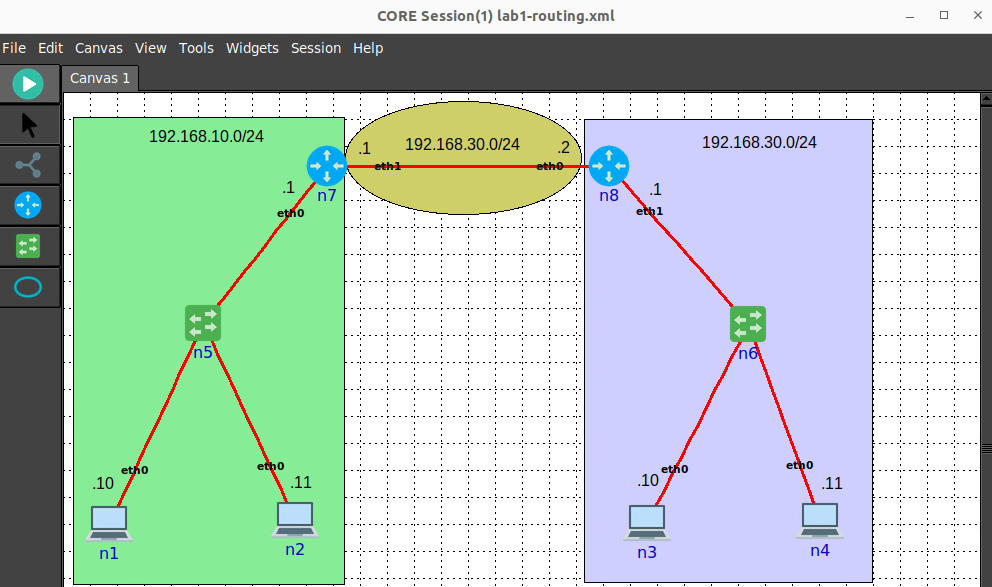
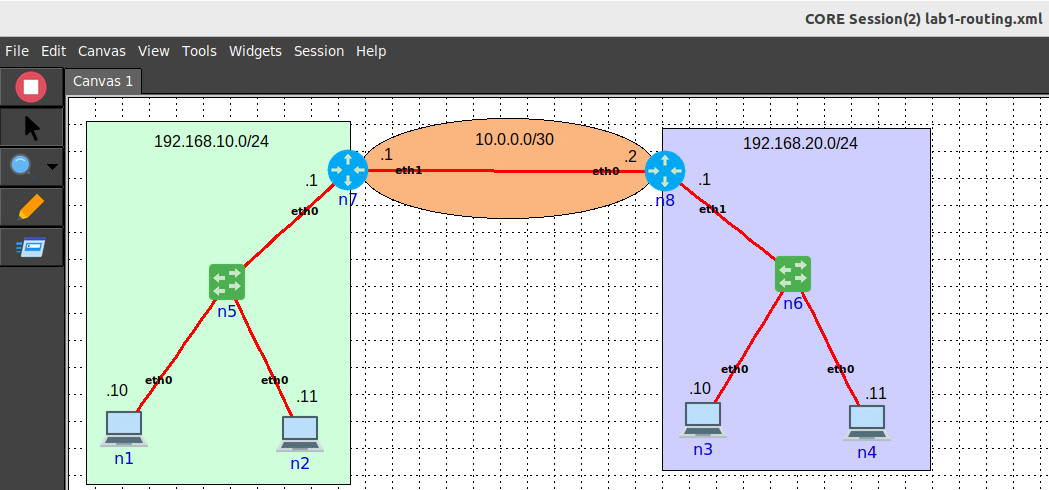
update

diff --git a/docs/source/lab1/part2/index.rst b/docs/source/lab1/part2/index.rst
@@ -23,19 +23,52 @@ For example, the host ``n1`` should be configured with the IP address ``192.168.
 
    ip addr add 192.168.10.10/24 dev eth0
 
-**Step 2:** Set the IP addresses on **all the routers** by following the IP addressing schemes shown in the topology. While it is possible to use the same commands as those used for setting the IPs for hosts, for routers we will use its Quagga/FRR interface to do so. Quagga/FRR are open-source software routing stacks.
+**Step 2:** Set the IP addresses on **all the interfaces of the the routers** by following the IP addressing schemes shown in the topology. While it is possible to use the same commands as those used for setting the IPs for hosts, for routers we will use its Quagga/FRR interface to do so. Quagga/FRR are open-source software routing stacks.
 
-For example, the host ``n1`` should be configured with the IP address ``192.168.10.10/24``::
+For example, the interface ``eth0`` on router ``n7`` should be configured with the IP address ``192.168.10.1/24``::
 
-   ip addr add 192.168.10.10/24 dev eth0
+   vtysh
 
-**Step 2:** From host ``n1``, ping host ``n2``::
+.. code-block:: none
+
+    # configure terminal
+        (config)# interface eth0
+            (config-if)# ip address 192.168.10.1/24
+            (config-if)# exit
+        (config)# interface eth1
+            (config-if)# ip address 10.0.0.1/30
+            (config-if)# exit
+        (config)# exit
+    #
+
+.. image:: ../images/15.png
+
+Now configure the router ``n8`` on your own.
+ 
+**Step 3:** Verify the configuration on the routers by issuing the following command under ``vtysh`` shell::
+
+   show running-config
+
+.. image:: ../images/16.png
+
+Testing Connectivity
+++++++++++++++++++++++++++++++
+
+**Step 1:** From host ``n1``, ping host ``n2``::
 
    ping -c 3 192.168.10.11
 
 .. image:: ../images/12.png
 
 You should see a successful ping.  
+
+**Step 1:** From host ``n1``, ping the interface ``eth0`` on router ``n7``::
+
+   ping -c 3 192.168.10.1
+
+.. image:: ../images/17.png
+
+You should see a successful ping.
 
 **Step 3:** From host ``n1``, ping host ``n3``::
 
@@ -57,44 +90,74 @@ This ping will not be successful. You will see the message ``Network is unreacha
 
 Notice that we still do not have connectivity. However, the error message changed from ``Network is unreachable`` to ``Destination Host Unreachable``. We will explain how to fix this next.
 
-
-- On router `r1`, set IP address `192.168.1.1/24` on `eth0` and `192.168.3.1/24` on `eth1`::
-
-   ip addr add 192.168.1.1/24 dev eth0
-   ip addr add 192.168.3.1/24 dev eth1
-
-- On router `r2`, set IP address `192.168.2.1/24` on `eth0` and `192.168.3.2/24` on `eth1`::
-
-   ip addr add 192.168.2.1/24 dev eth0
-   ip addr add 192.168.3.2/24 dev eth1
-
-**Step 4:** Inspect the IP addresses again to confirm they are set correctly::
-
-   ip -brief addr show dev eth0
+**Step 6:** Configure the default gateway for all the end-hosts (``n1``, ``n2``, ``n3``, ``n4``)
 
 Static Routing Configuration
 ----------------------------
 
+Inspecting Routing Tables on the Routers
++++++++++++++++++++++++++++++++++++++
+
+**Step 1:** Inspect the routing table of router ``n7`` by issuing the following command under ``vtysh``:
+
+.. code-block:: none
+
+   # show ip route
+
+
+.. image:: ../images/18.png
+
+
+The output is the routing table of ``n7``. It has three entries:
+
+   1 - ``10.0.0.0/30``: this network is directly connected (notice the C code at the beginning of the line) to the router on interface ``eth1``.
+   
+   2 - ``127.0.0.0/8``: this network is for the localhost and is directly connected to the router on the loopback interface ``lo``.
+   
+   3 - ``192.168.10.0/24``: this network is directly connected to the router on interface ``eth0``.
+
+The ``*`` after each routing table entry means that the route is pushed to the kernel's Forwarding Information Base (FIB). This means that the kernel is aware of these routers. 
+
+The router added those entries automatically to the routing table after we configured the IP addresses on its interfaces. 
+
+.. note::
+   The routing table of router ``n7`` does not have an entry to the network ``192.168.20.0/24``. Therefore, all packets destined to ``192.168.20.0/24`` will be dropped. 
+
+**Step 2:** Inspect the routing table of router ``n8``. 
+
+
 Configuring Static Routes on Routers
 +++++++++++++++++++++++++++++++++++++
 
-**Step 1:** On router `r1`, configure a static route to network `192.168.2.0/24` via router `r2`::
+In this section, we will manually add the routes to the routing tables of the routers. This is known as static routing.
 
-   ip route add 192.168.2.0/24 via 192.168.3.2
+**Step 1:** On router `n7`, configure a static route to network `192.168.20.0/24` under the ``vtysh`` terminal: 
 
-**Step 2:** On router `r2`, configure a static route to network `192.168.1.0/24` via router `r1`::
+.. code-block:: none
 
-   ip route add 192.168.1.0/24 via 192.168.3.1
+    # configure terminal
+        (config)# ip route 192.168.20.0/24 10.0.0.2
+        (config)# exit
+    #
 
-**Step 3:** Verify the routing tables on each router:
+.. image:: ../images/19.png
 
-- On router `r1`::
+The ip route command inserts a routing entry statically into the routing table. In this case, a route to the network ``192.168.20.0/24`` has been added. To reach that network, the next hop device is ``10.0.0.2``.
 
-   ip route show
+**Step 2:** Inspect the routing table of router ``n7``: 
 
-- On router `r2`::
+.. code-block:: none
 
-   ip route show
+   # show ip route
+
+.. image:: ../images/20.png
+
+Now we can see that a fourth entry has been added. This entry has been added statically (note the ``S`` at the beginning of the line) to reach the network ``192.168.20.0/24`` by taking the exit interface ``eth1`` on the current router. The IP ``10.0.0.2`` corresponds to the next hop (i.e., router ``n8``).
+
+**Step 3:** Configure static routing on router ``n8`` to reach the network 192.168.10.0/24.
+
+**Step 4:** Verify the routing tables on router ``n8``.
+
 
 Checking Connectivity
 ----------------------
@@ -102,22 +165,80 @@ Checking Connectivity
 Ping Test Between Hosts
 ++++++++++++++++++++++++++++++
 
-**Step 1:** On the terminal of host `h1`, send a ping to host `h2` to test connectivity::
+**Step 1:** On the terminal of host ``n1``, send a ping to host ``n3`` to test connectivity::
 
-   ping -c 1 192.168.2.10
+   ping -c 3 192.168.20.10
 
-You should receive a response from host `h2` if routing is correctly configured.
+.. image:: ../images/21.png
 
-**Step 2:** On the terminal of host `h2`, send a ping to host `h1` to verify two-way connectivity::
+You should receive a response from host ``n3`` if routing is correctly configured.
 
-   ping -c 1 192.168.1.10
+**Step 2:** On the terminal of host `n2`, send a ping to host `n4` to verify connectivity.
 
-Verifying Routing Tables and Traffic
-++++++++++++++++++++++++++++++
+You should receive a response from host ``n4`` if routing is correctly configured.
 
-**Step 1:** Inspect the routing tables on the routers again to ensure the static routes are present.
+Dynamic Routing using RIP
+----------------------
 
-**Step 2:** Use a tool like `tcpdump` or `wireshark` to capture traffic on the routers' interfaces and verify that packets are being routed correctly.
+**Step 1:** Delete the static route you added on router ``n7``:
+
+.. code-block:: none
+
+    # configure terminal
+        (config)# no ip route 192.168.20.0/24 10.0.0.2
+        (config)# exit
+    #
+
+**Step 2:** Delete the static route you added on router ``n8``:
+
+.. code-block:: none
+
+    # configure terminal
+        (config)# no ip route 192.168.10.0/24 10.0.0.1
+        (config)# exit
+    #
+
+**Step 3:** Open a new terminal on each of the routers, and enter the following command to start the RIP protocol daemon::
+
+   ripd -d
+
+
+**Step 4:** Configure RIP protocol by entering the following sequence of commands in a vtysh shell on ``n7``:
+
+.. code-block:: none
+
+    # configure terminal
+        (config)# router rip
+        (config-router)# network 192.168.10.0/24
+        (config-router)# network 10.0.0.0/30
+        (config-router)# redistribute static
+
+.. image:: ../images/22.png
+
+**Step 5:** Configure RIP protocol by entering the following sequence of commands in a vtysh shell on ``n8``:
+
+.. code-block:: none
+
+    # configure terminal
+        (config)# router rip
+        (config-router)# network 192.168.20.0/24
+        (config-router)# network 10.0.0.0/30
+        (config-router)# redistribute static
+        
+
+**Step 6:** Inspect the routing table on ``n7``::
+   
+   show ip route
+
+.. image:: ../images/23.png
+
+**Step 7:** On the terminal of host ``n1``, send a ping to host ``n3`` to test connectivity::
+
+   ping -c 3 192.168.20.10
+
+.. image:: ../images/21.png
+
+You should receive a response from host ``n3`` if routing is correctly configured.
 
 Stopping the Network Emulation
 ++++++++++++++++++++++++++++
